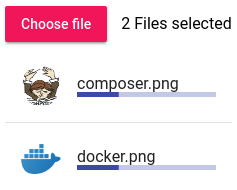
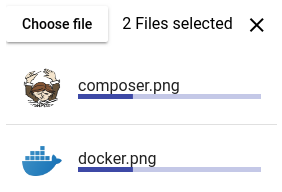
Add clear all files button

diff --git a/src/mat-file-upload.component.ts b/src/mat-file-upload.component.ts
@@ -164,6 +164,14 @@ export class MatFileUploadComponent extends _BaseMatFileUploadComponentMixin imp
 	}
 
 
+	public clearFiles(): void
+	{
+		this._value = [];
+		this._files = [];
+		this.recalculate();
+	}
+
+
 	public ngOnDestroy(): void
 	{
 		this.stateChanges.complete();
@@ -183,17 +191,7 @@ export class MatFileUploadComponent extends _BaseMatFileUploadComponentMixin imp
 			this._files.push(new UploadFile(files[i]));
 		}
 
-		if (this._value.length === 0) {
-			this.visibleValue = '';
-		} else if (this._value.length === 1) {
-			this.visibleValue = this._value[0].name;
-		} else {
-			this.visibleValue = this._value.length + ' Files selected';
-		}
-
-		this._onChange(this._value);
-		this.onTouched();
-		this.updateErrorState();
+		this.recalculate();
 	}
 
 
@@ -228,5 +226,21 @@ export class MatFileUploadComponent extends _BaseMatFileUploadComponentMixin imp
 
 
 	private _onChange = (_: any) => {};
+
+
+	private recalculate(): void
+	{
+		if (this._value.length === 0) {
+			this.visibleValue = '';
+		} else if (this._value.length === 1) {
+			this.visibleValue = this._value[0].name;
+		} else {
+			this.visibleValue = this._value.length + ' Files selected';
+		}
+
+		this._onChange(this._value);
+		this.onTouched();
+		this.updateErrorState();
+	}
 
 }

diff --git a/src/mat-file-upload.component.html b/src/mat-file-upload.component.html
@@ -24,7 +24,12 @@
 
 <div>
 	<button mat-raised-button (click)="openDialog()" [color]="color" [disabled]="disabled" type="button"><ng-content></ng-content></button>
-	<span *ngIf="visibleValue !== ''" [ngClass]="{'mat-caption': dense}" style="padding-left: 10px;">{{ visibleValue }}</span>
+	<span *ngIf="visibleValue !== ''" [ngClass]="{'mat-caption': dense}" style="padding-left: 10px;">
+		{{ visibleValue }}
+		<button *ngIf="!disabled" mat-icon-button (click)="clearFiles()" type="button">
+			<mat-icon>close</mat-icon>
+		</button>
+	</span>
 </div>
 
 <ng-container *ngIf="previewPosition === 'bottom'">
